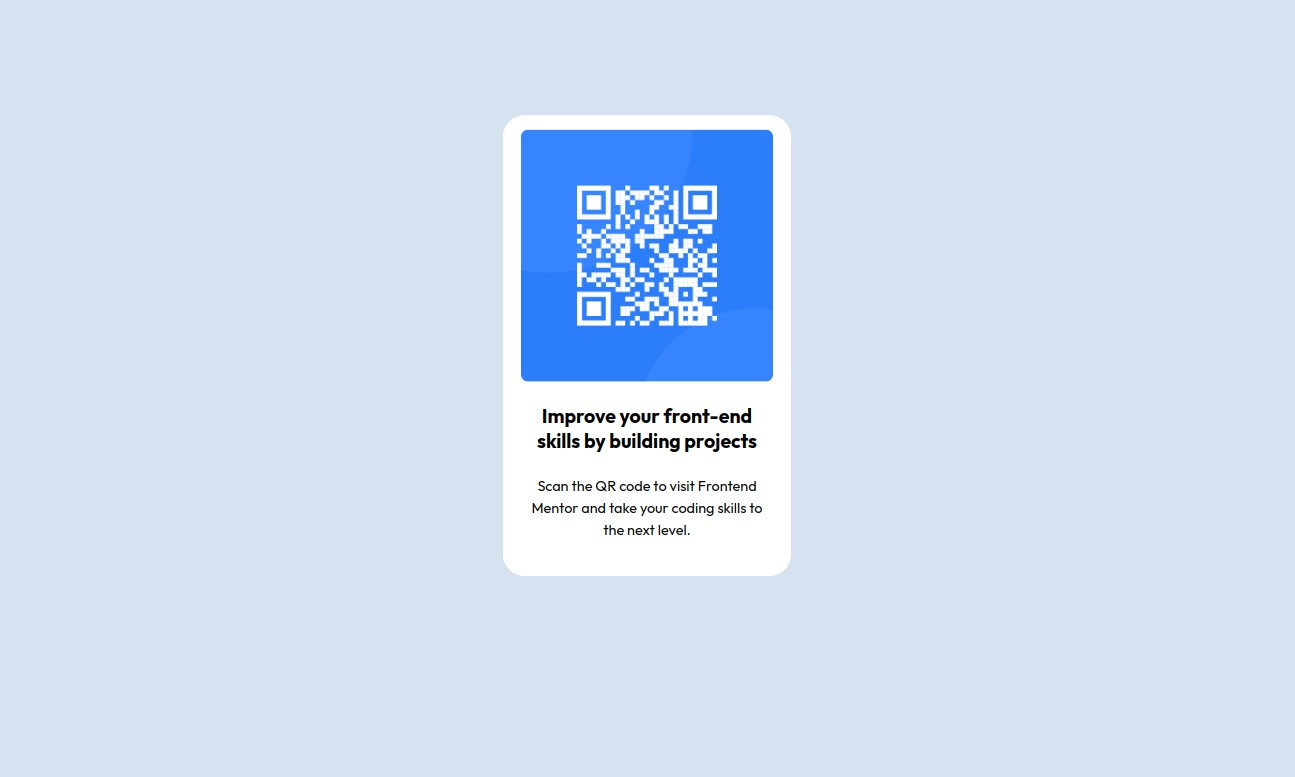
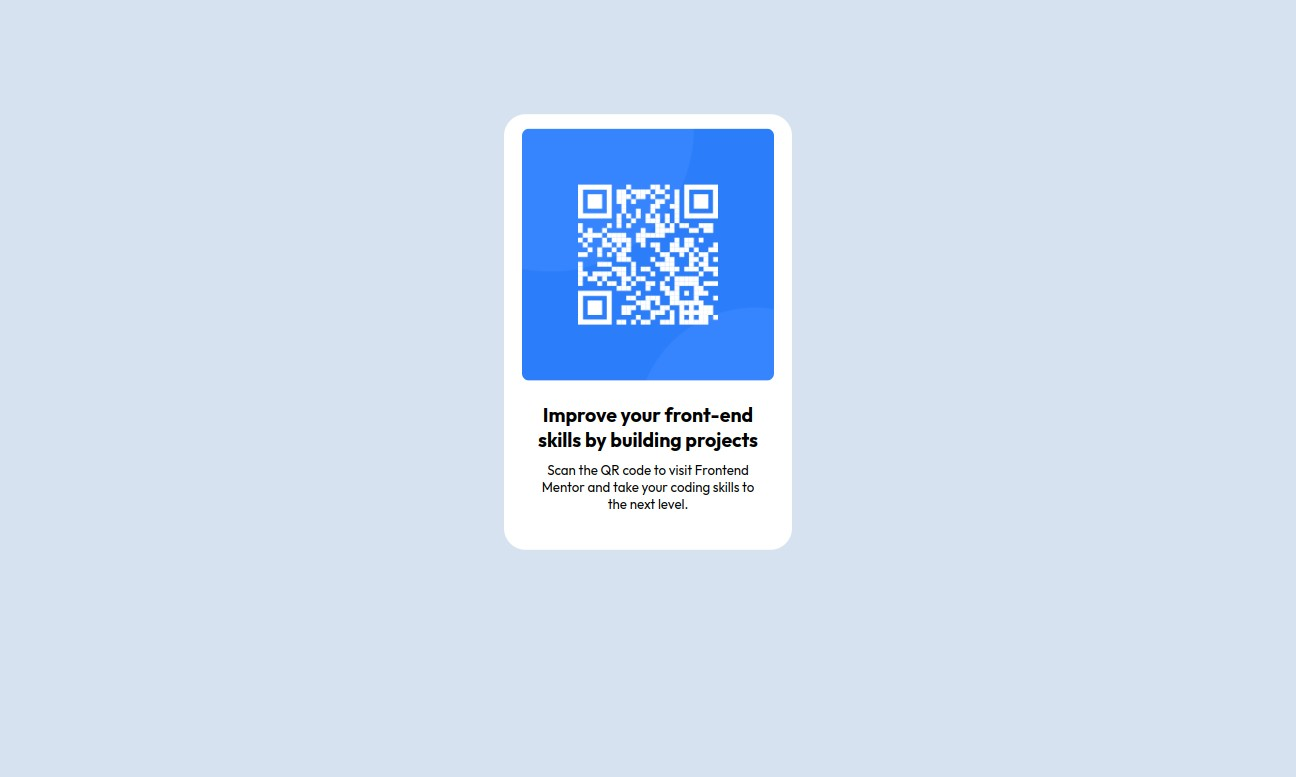
Minor fixes

Changed region(s): [[0.3707, 0.5251, 0.6178, 0.7413], [0.4324, 0.2162, 0.556, 0.4324], [0.4015, 0.4633, 0.4324, 0.4942]]

diff --git a/qr-code-component-main/index.html b/qr-code-component-main/index.html
@@ -3,25 +3,29 @@
 
 <head>
     <meta charset="UTF-8">
-    <meta name="viewport" content="width=device-width, initial-scale=1.0"> <!-- displays site properly based on user's device -->
-    <link rel="stylesheet" type="text/css" href="./style.css">
-    <link rel="icon" type="image/png" sizes="32x32" href="./images/favicon-32x32.png">
+    <meta name="viewport" content="width=device-width, initial-scale=1.0"/> <!-- displays site properly based on user's device -->
+    <link rel="stylesheet" type="text/css" href="./style.css"/>
+    <link rel="icon" type="image/png" sizes="32x32" href="./images/favicon-32x32.png"/>
     <title>Frontend Mentor | QR code component</title>
     <script src="https://cdn.tailwindcss.com"></script>
-    <link rel="preconnect" href="https://fonts.googleapis.com">
-    <link rel="preconnect" href="https://fonts.gstatic.com" crossorigin>
-    <link href="https://fonts.googleapis.com/css2?family=Outfit:wght@400;700&display=swap" rel="stylesheet">
+    <link rel="preconnect" href="https://fonts.googleapis.com"/>
+    <link rel="preconnect" href="https://fonts.gstatic.com" crossorigin/>
+    <link href="https://fonts.googleapis.com/css2?family=Outfit:wght@400;700&display=swap" rel="stylesheet"/>
 </head>
 
 <body>
     <main class="container mx-auto w-full h-full flex justify-center items-center my-32">
-       <div class="bg-white flex flex-col pt-4 pb-10 px-4 mx-0 justify-center items-center md:w-1/4 w-72 rounded-3xl ">
-        <img alt="qr-code leading to front-end mentor"class="rounded-lg mx-2"src="./images/image-qr-code.png" width="280" height="280" >
-      
-      <p class="mt-6 text-base text-center text-black">
-        <span class="font-bold flex flex-col" >Improve your front-end </br> skills by building projects</span> </br> Scan the QR code to visit Frontend </br> Mentor and take your coding skills to </br> the next level.
-      </p>
-    </div>
+        <div class="bg-white flex flex-col pt-4 pb-10 px-4 mx-0 justify-center items-center md:w-1/4 w-72 rounded-3xl">
+            <img alt="qr-code leading to front-end mentor" src="./images/image-qr-code.png" width="280" height="280" class="rounded-lg mx-2" />
+            <p class="mt-6 text-base text-center text-black" style="line-height: 1.2rem; font-size: 0.92rem;">
+                <span class="font-bold flex flex-col">
+                    Improve your front-end</br>skills by building projects
+                </span>
+                <br id="breakline">Scan the QR code to visit Frontend
+                </br> Mentor and take your coding skills to
+                </br> the next level.
+            </p>
+        </div>
     </main>
 </body>
 

diff --git a/qr-code-component-main/style.css b/qr-code-component-main/style.css
@@ -2,12 +2,14 @@ body {
     -webkit-font-smoothing: antialiased;
     -moz-osx-font-smoothing: grayscale;
     font-family: "Outfit", sans-serif;
-    background: hsl(212, 45%, 89%);
-}
-img {
-    border-radius: 9px;
+    background: #d6e2f0;
 }
 span {
     font-size:  1.35rem;
     line-height: 1.75rem;
+}
+#breakline {
+    content: "";
+    display: block;
+    margin-top: 10px;
 }
